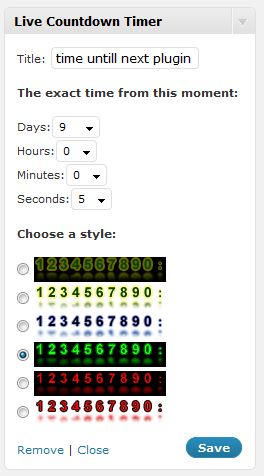
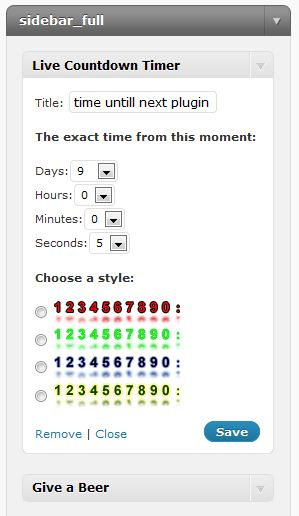
Update
git-svn-id: https://plugins.svn.wordpress.org/live-countdown-timer/tags/1.2.1@139972 b8457f37-d9ea-0310-8a92-e5e31aec5664

diff --git a/style.css b/style.css
@@ -9,7 +9,7 @@ padding:0px;
 float:left;
 display:inline;
 overflow:hidden;
-background:url(images/a.jpg);
+background:url(images/a.png);
 width:12px;
 height:25px;	
 content:none;
@@ -34,7 +34,6 @@ margin:0px;
 padding:0px;
 display:inline-box;
 overflow:hidden;
-background:#000000;
 width:144px;
 }
 

diff --git a/live-countdown-timer.php b/live-countdown-timer.php
@@ -2,11 +2,11 @@
 /*
 
 Plugin Name: Live Countdown Timer
-Plugin URI: http://www.appchain.com/2009/06/live-countdown-timer-1-1/
+Plugin URI: http://www.appchain.com/2009/07/live-countdown-timer-1-2/
 Description: Live Countdown Timer to an important event you want to show
 Author: Turcu Ciprian
 License: GPL
-Version: 1.1
+Version: 1.2.1
 Author URI: http://www.appchain.com
 
 */
@@ -50,44 +50,28 @@ function live_countdown_timer_CalcDate($xFromDate, $xVal){
 
 	switch($xLCTPic){
 		case "0":
-			$xLCTJpg = "a.jpg";
-			$xLCTBGColor = "#000000";
+			$xLCTJpg = "a.png";
 		break;
 		case "1":
-			$xLCTJpg = "b.jpg";
-			$xLCTBGColor = "#FFFFFF";
+			$xLCTJpg = "b.png";
 		break;
 		case "2":
-			$xLCTJpg = "c.jpg";
-			$xLCTBGColor = "#FFFFFF";
+			$xLCTJpg = "c.png";
 		break;
 		case "3":
-			$xLCTJpg = "d.jpg";
-			$xLCTBGColor = "#000000";
+			$xLCTJpg = "d.png";
 		break;
-		case "4":
-			$xLCTJpg = "e.jpg";
-			$xLCTBGColor = "#000000";
-		break;
-		case "5":
-			$xLCTJpg = "f.jpg";
-			$xLCTBGColor = "#FFFFFF";
-		break;		
 		default:
-			$xLCTJpg = "a.jpg";
-			$xLCTBGColor = "#000000";
+			$xLCTJpg = "a.png";
 		break;
 	}
 	?>		
 		<style type="text/css">
 		.live_countdown_timerClass .xLCTTime div{
-			background:url(<?php bloginfo('url'); ?>/wp-content/plugins/live-countdown-timer/images/<?php echo $xLCTJpg;?>);
+			background:url(<?php bloginfo('wpurl'); ?>/wp-content/plugins/live-countdown-timer/images/<?php echo $xLCTJpg;?>);
 		}
 		.live_countdown_timerClass .xLCTText{
-			background:url(<?php bloginfo('url'); ?>/wp-content/plugins/live-countdown-timer/images/text<?php echo $xLCTJpg;?>);
-		}
-		.live_countdown_timerClass .xLCTContent{
-			background:<?php echo $xLCTBGColor;?>;
+			background:url(<?php bloginfo('wpurl'); ?>/wp-content/plugins/live-countdown-timer/images/text<?php echo $xLCTJpg;?>);
 		}
 		</style>
 
@@ -115,7 +99,7 @@ function live_countdown_timer_CalcDate($xFromDate, $xVal){
 			</div>
 			<?php echo $after_widget;?>
 		</div>
-		<script type="text/javascript" src="<?php echo bloginfo('url'); ?>/wp-content/plugins/live-countdown-timer/script.js"></script>
+		<script type="text/javascript" src="<?php echo bloginfo('wpurl'); ?>/wp-content/plugins/live-countdown-timer/script.js"></script>
 		<script type="text/javascript">
 			live_countdown_timer_Start('<?php echo $xValueArrx;?>');
 		</script>
@@ -201,22 +185,18 @@ if($_POST['live_countdown_timer_days'])
 		</select><br/>
 	   <h4>Choose a style:</h4>
 	   <input type="radio" class="xLCTRadio" name="live_countdown_timer_Pic" value="0" <?php if($xPic==0){echo "checked";}?> />
-	   <img src="<?php bloginfo('url'); ?>/wp-content/plugins/live-countdown-timer/images/a.jpg" alt="if you can see this instead of the picture, you did not install the plugin corectly"/><br/>
+	   <img src="<?php bloginfo('wpurl'); ?>/wp-content/plugins/live-countdown-timer/images/a.png" alt="if you can see this instead of the picture, you did not install the plugin corectly"/><br/>
 	   <input type="radio" class="xLCTRadio" name="live_countdown_timer_Pic" value="1" <?php if($xPic==1){echo "checked";}?> />
-	   <img src="<?php bloginfo('url'); ?>/wp-content/plugins/live-countdown-timer/images/b.jpg" alt="if you can see this instead of the picture, you did not install the plugin corectly"/><br/>
+	   <img src="<?php bloginfo('wpurl'); ?>/wp-content/plugins/live-countdown-timer/images/b.png" alt="if you can see this instead of the picture, you did not install the plugin corectly"/><br/>
 	   <input type="radio" class="xLCTRadio" name="live_countdown_timer_Pic" value="2" <?php if($xPic==2){echo "checked";}?> />
-	   <img src="<?php bloginfo('url'); ?>/wp-content/plugins/live-countdown-timer/images/c.jpg" alt="if you can see this instead of the picture, you did not install the plugin corectly"/><br/>
+	   <img src="<?php bloginfo('wpurl'); ?>/wp-content/plugins/live-countdown-timer/images/c.png" alt="if you can see this instead of the picture, you did not install the plugin corectly"/><br/>
 	    <input type="radio" class="xLCTRadio" name="live_countdown_timer_Pic" value="3" <?php if($xPic==3){echo "checked";}?> />
-	   <img src="<?php bloginfo('url'); ?>/wp-content/plugins/live-countdown-timer/images/d.jpg" alt="if you can see this instead of the picture, you did not install the plugin corectly"/><br/>
-	    <input type="radio" class="xLCTRadio" name="live_countdown_timer_Pic" value="4" <?php if($xPic==4){echo "checked";}?> />
-	   <img src="<?php bloginfo('url'); ?>/wp-content/plugins/live-countdown-timer/images/e.jpg" alt="if you can see this instead of the picture, you did not install the plugin corectly"/><br/>
-	    <input type="radio" class="xLCTRadio" name="live_countdown_timer_Pic" value="5" <?php if($xPic==5){echo "checked";}?> />
-	   <img src="<?php bloginfo('url'); ?>/wp-content/plugins/live-countdown-timer/images/f.jpg" alt="if you can see this instead of the picture, you did not install the plugin corectly"/><br/>
+	   <img src="<?php bloginfo('wpurl'); ?>/wp-content/plugins/live-countdown-timer/images/d.png" alt="if you can see this instead of the picture, you did not install the plugin corectly"/><br/>
 	   <?php 
 }
 function live_countdown_timer_AddStyle(){
 ?>
-<link rel="stylesheet" href="<?php echo bloginfo('url'); ?>/wp-content/plugins/live-countdown-timer/style.css" type="text/css" media="screen" />
+<link rel="stylesheet" href="<?php echo bloginfo('wpurl'); ?>/wp-content/plugins/live-countdown-timer/style.css" type="text/css" media="screen" />
 <?php
 }
 
